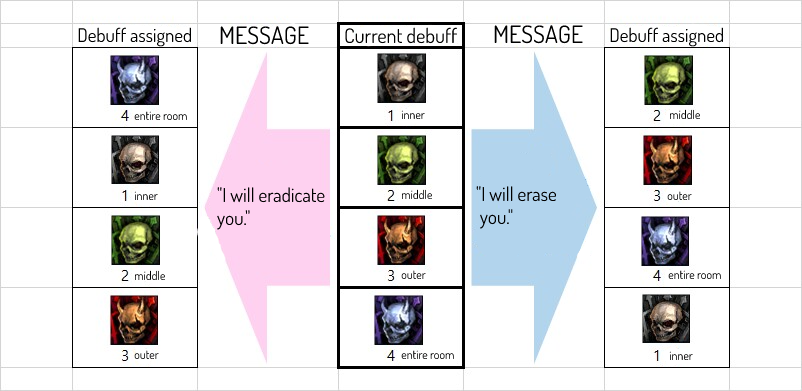
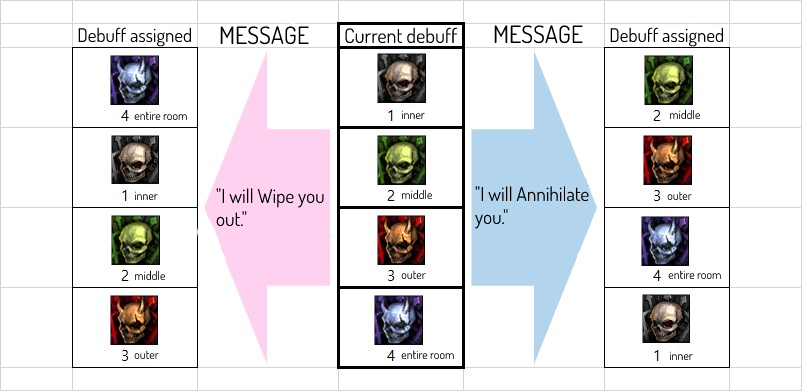
Updated HAQ guide

Changed region(s): [[0.5923, 0.4604, 0.7481, 0.5831], [0.2494, 0.4604, 0.4052, 0.5831]]

diff --git a/static/dungeons/rewip-ressurected-shandra-manaya-halls.html b/static/dungeons/rewip-ressurected-shandra-manaya-halls.html
@@ -189,8 +189,8 @@
             <div class="row">
                   <div class="col-md-6">
                     <div class="left-content"><br>
-                <center><h4>I will Erase you!</h4></center>
-                <p>When she says <strong>"Erase"</strong> you <strong>MUST</strong> look at the debuff she assigns you quickly and then take <strong>+1</strong> whatever that is.</p><br>
+                <center><h4>I will Annihilate you !</h4></center>
+                <p>When she says <strong>"Annihilate"</strong> you <strong>MUST</strong> look at the debuff she assigns you quickly and then take <strong>+1</strong> whatever that is.</p><br>
                 <p>In this example the gunner gets changed to <img src="../../assets/images/dungeons/ressurected-shandra-manaya-halls/outer-stand.png" alt=""> with a 10 second duration. Because it is <strong>ERASE</strong>, he must add +1 and take that to survive. <img src="../../assets/images/dungeons/ressurected-shandra-manaya-halls/outer-stand.png" alt=""> (3) +1 = take <img src="../../assets/images/dungeons/ressurected-shandra-manaya-halls/entire-room-stand.png" alt=""> (4)                
                     </div>
                   </div>
@@ -201,8 +201,8 @@
             <div class="row">
                   <div class="col-md-6">
                     <div class="left-content"><br>
-                <center><h4>I will Eradicate you!</h4></center>
-                <p>When the boss says <strong>Eradicate</strong>, you now <strong>MUST</strong> <strong>-1</strong> from your current debuff to survive.</p><br>
+                <center><h4>I will wipe you out! </h4></center>
+                <p>When the boss says <strong>Wipe</strong>, you now <strong>MUST</strong> <strong>-1</strong> from your current debuff to survive.</p><br>
                 <p>Again the gunner is changed to <img src="../../assets/images/dungeons/ressurected-shandra-manaya-halls/outer-stand.png" alt="">. Because the boss said <strong>Eradicate</strong> the gunner must -1 to survive. <img src="../../assets/images/dungeons/ressurected-shandra-manaya-halls/outer-stand.png" alt=""> (3) -1 = take <img src="../../assets/images/dungeons/ressurected-shandra-manaya-halls/middle-stand.png" alt=""> (2)</p>    
                     </div>
                   </div>
